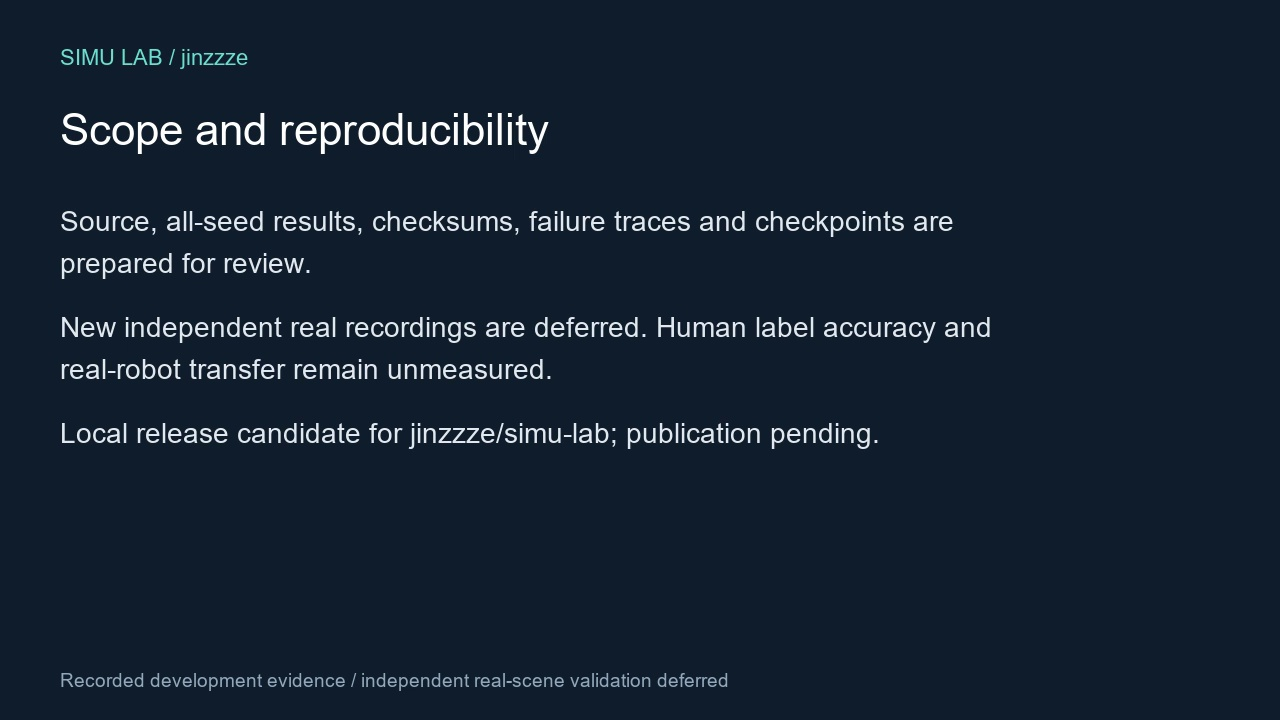
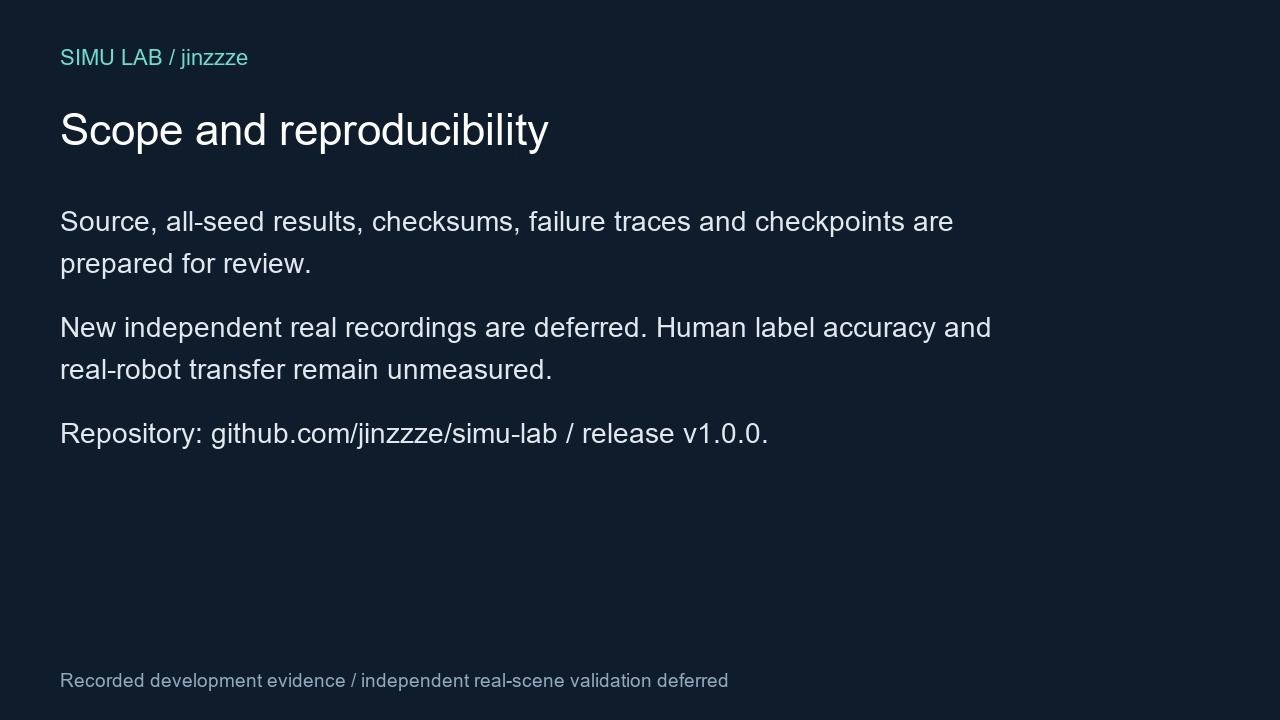
Finalize public release status in reports and demonstration

Changed region(s): [[0.0312, 0.5806, 0.6875, 0.6417]]

diff --git a/artifacts/reports/submission_v1/index.html b/artifacts/reports/submission_v1/index.html
@@ -1,1 +1,1 @@
-<!doctype html><html lang="en"><head><meta charset="utf-8"><meta name="viewport" content="width=device-width,initial-scale=1"><title>Simu Lab | Robot learning from personal video</title><style>body{margin:0;background:#f2f6f5;color:#172e3b;font:17px/1.6 system-ui}main{max-width:1050px;margin:auto;padding:45px 24px}h1{font-size:44px;line-height:1.13}h2{margin-top:42px}a{color:#087b80}video{width:100%;background:#101e2c;border-radius:12px}section{background:white;border:1px solid #dbe5e7;padding:24px;border-radius:12px;margin:22px 0}.notice{background:#fff3dc;padding:15px;border-radius:8px}table{border-collapse:collapse;width:100%}td,th{padding:10px;border-bottom:1px solid #dbe5e7;text-align:left}.scroll{overflow-x:auto}small{color:#526976}</style></head><body><main><small>JINZZZE / SIMU-LAB / LOCAL RELEASE CANDIDATE</small><h1>Can hand and object supervision<br>improve simulated robot grasping?</h1><p>A controlled pilot study using 12 personally supplied phone videos, a contact-based Panda simulator, a learned macro-outcome model and a separate compact Diffusion Policy.</p><p class="notice">Publication pending. Independent real-scene validation is deferred. Existing phone recordings remain development data; human pseudo-label accuracy and real-robot transfer have not been measured.</p><video controls preload="metadata" poster="slide_00.png" src="submission_demo_en.mp4"></video><p><a href="../../../docs/SUBMISSION_EN.md">Application draft</a> · <a href="../../../README.md">English technical overview</a> · <a href="../../../docs/RELEASE_REPRODUCTION.md">Reproduction</a> · <a href="../visual_ablation_v1/index.html">Detailed evidence report (Chinese)</a></p><section><h2>Result: no measured combined-supervision gain</h2><div class="scroll"><table><tr><th>Group</th><th>Auxiliary target</th><th>256 images</th><th>32 images</th></tr><tr><td>A</td><td>RGB consistency only</td><td>192/192</td><td>184/192</td></tr><tr><td>B</td><td>Object boxes</td><td>192/192</td><td>183/192</td></tr><tr><td>C</td><td>Hand landmarks</td><td>192/192</td><td>184/192</td></tr><tr><td>D</td><td>Both</td><td>192/192</td><td>181/192</td></tr><tr><td>R</td><td>No personal-video pretraining</td><td>192/192</td><td>182/192</td></tr></table></div><p>Each row reuses 64 initial scenes across three training seeds. R and the 32-image follow-up are additional exploratory diagnostics; the latter reuses the test scenes. No statistical significance or real-world generalization is claimed.</p></section><section><h2>Separate learned components</h2><p><strong>Macro-outcome model:</strong> 28.41 mm mean endpoint error and 153/160 correct success/failure labels across 32 test initial scenes. This is prediction accuracy; only 71/160 recorded actions succeeded. The model does not select actions.</p><p><strong>Compact DP-D:</strong> 84/192 strict successes (27, 25 and 32 out of 64 per seed), with 128 additional simulated expert training trajectories. Initial estimated XY, robot state and time condition the policy; it is not an end-to-end RGB-history benchmark replica. Two rendered-image overlaps are disclosed; exclusion sensitivity is 80/186.</p></section><section><h2>Inspect the evidence</h2><ul><li><a href="../visual_ablation_v1/fairness_audit.json">Primary paired-input audit</a></li><li><a href="../diffusion_policy_v1/audit.json">DP audit</a> · <a href="../diffusion_policy_v1/failure_review/DP_seed7_scene30001/failure_demo.mp4">First DP seed-7 failure</a></li><li><a href="../grasp_world_model_v1/results.json">World-model metrics and lineage</a></li><li><a href="../../../docs/DATA_MODEL_CARD.md">Data and model card</a> · <a href="../../../THIRD_PARTY_NOTICES.md">Third-party sources</a></li></ul></section><p><small>Prepared with Codex assistance. Applicant name, final license and actual public URLs remain to be confirmed. Nothing on this page asserts that an application has been submitted or accepted.</small></p></main></body></html>
+<!doctype html><html lang="en"><head><meta charset="utf-8"><meta name="viewport" content="width=device-width,initial-scale=1"><title>Simu Lab | Robot learning from personal video</title><style>body{margin:0;background:#f2f6f5;color:#172e3b;font:17px/1.6 system-ui}main{max-width:1050px;margin:auto;padding:45px 24px}h1{font-size:44px;line-height:1.13}h2{margin-top:42px}a{color:#087b80}video{width:100%;background:#101e2c;border-radius:12px}section{background:white;border:1px solid #dbe5e7;padding:24px;border-radius:12px;margin:22px 0}.notice{background:#fff3dc;padding:15px;border-radius:8px}table{border-collapse:collapse;width:100%}td,th{padding:10px;border-bottom:1px solid #dbe5e7;text-align:left}.scroll{overflow-x:auto}small{color:#526976}</style></head><body><main><small>JINZZZE / SIMU-LAB / RECORDED PILOT / V1.0.0</small><h1>Can hand and object supervision<br>improve simulated robot grasping?</h1><p>A controlled pilot study using 12 personally supplied phone videos, a contact-based Panda simulator, a learned macro-outcome model and a separate compact Diffusion Policy.</p><p class="notice">Public repository: <a href="https://github.com/jinzzze/simu-lab">jinzzze/simu-lab</a>; <a href="https://github.com/jinzzze/simu-lab/releases/tag/v1.0.0">data, models and checksums</a>. Independent real-scene validation is deferred. Existing phone recordings remain development data; human pseudo-label accuracy and real-robot transfer have not been measured.</p><video controls preload="metadata" poster="slide_00.png" src="submission_demo_en.mp4"></video><p><a href="../../../docs/SUBMISSION_EN.md">Application draft</a> · <a href="../../../README.md">English technical overview</a> · <a href="../../../docs/RELEASE_REPRODUCTION.md">Reproduction</a> · <a href="../visual_ablation_v1/index.html">Detailed evidence report (Chinese)</a></p><section><h2>Result: no measured combined-supervision gain</h2><div class="scroll"><table><tr><th>Group</th><th>Auxiliary target</th><th>256 images</th><th>32 images</th></tr><tr><td>A</td><td>RGB consistency only</td><td>192/192</td><td>184/192</td></tr><tr><td>B</td><td>Object boxes</td><td>192/192</td><td>183/192</td></tr><tr><td>C</td><td>Hand landmarks</td><td>192/192</td><td>184/192</td></tr><tr><td>D</td><td>Both</td><td>192/192</td><td>181/192</td></tr><tr><td>R</td><td>No personal-video pretraining</td><td>192/192</td><td>182/192</td></tr></table></div><p>Each row reuses 64 initial scenes across three training seeds. R and the 32-image follow-up are additional exploratory diagnostics; the latter reuses the test scenes. No statistical significance or real-world generalization is claimed.</p></section><section><h2>Separate learned components</h2><p><strong>Macro-outcome model:</strong> 28.41 mm mean endpoint error and 153/160 correct success/failure labels across 32 test initial scenes. This is prediction accuracy; only 71/160 recorded actions succeeded. The model does not select actions.</p><p><strong>Compact DP-D:</strong> 84/192 strict successes (27, 25 and 32 out of 64 per seed), with 128 additional simulated expert training trajectories. Initial estimated XY, robot state and time condition the policy; it is not an end-to-end RGB-history benchmark replica. Two rendered-image overlaps are disclosed; exclusion sensitivity is 80/186.</p></section><section><h2>Inspect the evidence</h2><ul><li><a href="../visual_ablation_v1/fairness_audit.json">Primary paired-input audit</a></li><li><a href="../diffusion_policy_v1/audit.json">DP audit</a> · <a href="../diffusion_policy_v1/failure_review/DP_seed7_scene30001/failure_demo.mp4">First DP seed-7 failure</a></li><li><a href="../grasp_world_model_v1/results.json">World-model metrics and lineage</a></li><li><a href="../../../docs/DATA_MODEL_CARD.md">Data and model card</a> · <a href="../../../THIRD_PARTY_NOTICES.md">Third-party sources</a></li></ul></section><p><small>Prepared with Codex assistance. Applicant name and final license remain to be confirmed. Nothing on this page asserts that an application has been submitted or accepted.</small></p></main></body></html>

diff --git a/scripts/build_submission_demo.py b/scripts/build_submission_demo.py
@@ -30,7 +30,7 @@ def main():
       ('video','Compact Diffusion Policy: learned commands',13,'artifacts/runs/diffusion_policy_grasp_v1/DP_seed7/first_scene_demo.mp4','Seed 7 / first scene 30000. Additional simulated expert action supervision.'),
       ('video','Failure evidence is retained',13,'artifacts/reports/diffusion_policy_v1/failure_review/DP_seed7_scene30001/failure_demo.mp4','First failed scene for seed 7. Replay of stored commands; no resampling.'),
       ('card','DP-D: 84/192 strict successes',10,['Seeds 7 / 17 / 27: 27/64, 25/64, 32/64.','90 failures without qualified lift; 18 after qualified lift.','Same frozen D7 initial vision; extra action data and different budgets. This is not a matched algorithm ablation.']),
-      ('card','Scope and reproducibility',10,['Source, all-seed results, checksums, failure traces and checkpoints are prepared for review.','New independent real recordings are deferred. Human label accuracy and real-robot transfer remain unmeasured.','Local release candidate for jinzzze/simu-lab; publication pending.'])]
+      ('card','Scope and reproducibility',10,['Source, all-seed results, checksums, failure traces and checkpoints are prepared for review.','New independent real recordings are deferred. Human label accuracy and real-robot transfer remain unmeasured.','Repository: github.com/jinzzze/simu-lab / release v1.0.0.'])]
     writer=imageio_ffmpeg.write_frames(str(OUT/'submission_demo_en.mp4'),(1280,720),fps=20,codec='libx264',quality=7,macro_block_size=1,output_params=['-movflags','+faststart'])
     writer.send(None);timeline=[];t=0
     try:

diff --git a/README.md b/README.md
@@ -113,7 +113,7 @@ The 32-image extension is defined by `configs/low_data_plan.json`; its source is
 
 ## What worked and what did not
 
-- The complete personal-video → trained encoder → RGB localization → physical grasp path runs. Primary provenance/pairing checks pass, including rendered-image identity and online/offline prediction agreement. The recorded 26 core tests passed using isolated processes.
+- The complete personal-video → trained encoder → RGB localization → physical grasp path runs. Primary provenance/pairing checks pass, including rendered-image identity and online/offline prediction agreement. The release verification passed 39 tests in an independently installed environment, using isolated processes.
 - The 256-image benchmark is too easy to distinguish task success; even ImageNet without personal-video pretraining succeeds on all tested scenes.
 - Reducing simulation supervision to 32 images reveals failures and larger localization errors, but does not support the combined-supervision hypothesis. All 46 low-data failures lack a qualified lift; example replays are preserved separately from aggregate evidence.
 - The Windows Torch and Panda/Bullet stacks conflict when loaded together (two OpenMP runtimes). A persistent isolated predictor process fixes integration; only RGB bytes enter it. Tests use separate processes. Unsafe duplicate-runtime suppression is not used.
@@ -125,6 +125,6 @@ This is a small pilot with one conservative real development scene family. There
 
 The reported four-group experiment uses real data for visual learning. The independent macro-action extension supplies a trained outcome model from simulation, with true-state and one-checkpoint RGB diagnostics. There is still no VLA, demonstrated world-model planning benefit or broad dynamics generalization. The separate DP extension learns actions from additional simulated robot demonstrations. Its transition labels do not come from the personal videos.
 
-Raw phone videos, derived NPZs, large weights and the environment remain local and are excluded from Git. Without those exact inputs, the code alone cannot recreate this particular experiment. No public data download, code license, public repository or application submission is asserted. These remain applicant-owned release steps. See the [challenge alignment and delivery gaps](docs/CHALLENGE_ALIGNMENT.md).
+Raw phone videos, derived NPZs and large weights are distributed separately in the v1.0.0 Release rather than Git history. The installed environment is not distributed; use the recorded installation locks. Public distribution of all recorded inputs and checkpoints was approved by the applicant. No blanket source/data/model license has been granted, and the actual job application remains unsubmitted. See the [challenge alignment and delivery gaps](docs/CHALLENGE_ALIGNMENT.md).
 
 [Current task](docs/CURRENT_TASK.md) · [Data and labels](docs/PILOT_LABEL_REPORT.md) · [Training implementation](docs/VISUAL_TRAINING.md) · [Original challenge](https://jobs.ashbyhq.com/humanoid/e1a2a9de-ad23-4632-9d93-ee50fd41a221)

diff --git a/docs/CHALLENGE_ALIGNMENT.md b/docs/CHALLENGE_ALIGNMENT.md
@@ -27,7 +27,7 @@ The original A/B/C/D/R experiment still uses a fixed grasp state machine and fra
 
 Independent real recording sessions, dense pseudo-label accuracy annotation, stronger action-aware world-model baselines, broader RGB uncertainty evaluation, new camera/object/physics distributions and real robot testing remain open. The completed RGB batch diagnostic uses one previously selected visual checkpoint and replays commands originally constructed using true simulator state plus fixed offsets. It is not an RGB policy choosing actions, and the small metric differences do not show that estimated state is superior to true state.
 
-A public GitHub repository, code/data release licensing, public input and weight availability, a clean installation on another machine, and final application submission remain incomplete. Raw recordings and large outputs are currently local and ignored by Git; a public code repository alone would not reproduce these specific results. Publication must also check that linked videos and required inputs are actually accessible. No personal applicant details or public project URLs have been fabricated.
+The public repository and versioned input/checkpoint downloads are provided at jinzzze/simu-lab. A clean installation on a different machine, a blanket code/data reuse license and final application submission remain open. Personal applicant details have not been fabricated. Public distribution of all original recordings and checkpoints was explicitly approved.
 
 ## Review entry points
 
@@ -42,7 +42,7 @@ These are evidence and release boundaries for the current project, not a claim t
 
 ## Release preparation update (2026-10-07)
 
-Independent real-scene validation is deferred by the applicant. Local source/report and input/checkpoint release candidates, an English application draft, a 112-second captioned demonstration and a 48-frame blinded development-label review are prepared. Human box/keypoint accuracy is not yet measured. Same-host clean installation passes the recorded checks; publication, final license/data permissions, applicant identity and the actual application remain pending. See [release checklist](RELEASE_CHECKLIST_ZH.md) and [archive reproduction](RELEASE_REPRODUCTION.md).
+Independent real-scene validation is deferred by the applicant. Local source/report and input/checkpoint release candidates, an English application draft, a 112-second captioned demonstration and a 48-frame blinded development-label review are prepared. Human box/keypoint accuracy is not yet measured. Same-host clean installation passes the recorded checks. All materials have been approved for public distribution; final license selection, applicant identity and the actual application remain pending. See [release checklist](RELEASE_CHECKLIST_ZH.md) and [archive reproduction](RELEASE_REPRODUCTION.md).
 
 
 ## Public release addendum

diff --git a/docs/REPRODUCIBILITY.md b/docs/REPRODUCIBILITY.md
@@ -31,7 +31,7 @@ Read `docs/PILOT_LABEL_REPORT.md` before interpreting pseudo labels. `scripts/in
 
 The current pilot has one conservative real development scene family. Adjacent frames, copies, annotations and re-encodings must not be assigned independent real train/test identities. The duplicate `pilot_originals` directory is not extra data. Sparse visual approval is for exploratory development only, not certified label accuracy.
 
-Human videos were personally supplied by the applicant. No public download is currently available; code alone cannot reproduce these specific results without the exact local input data. Do not substitute synthetic images and present their outcomes as the personal-data experiment. Raw video publication and data licensing remain applicant decisions.
+Human videos were personally supplied by the applicant and their public distribution was explicitly authorized. Download the exact input/checkpoint archive from release v1.0.0; code alone is insufficient to recreate these results. Do not substitute synthetic images and present their outcomes as the personal-data experiment. A license for downstream reuse remains separate from permission to distribute.
 
 ## Environment
 
@@ -90,7 +90,7 @@ See [DP-D scope and commands](DIFFUSION_POLICY.md). Recompute its report with `.
 
 ## Release preparation update (2026-10-07)
 
-Independent real-scene validation is deferred by the applicant. Local source/report and input/checkpoint release candidates, an English application draft, a 112-second captioned demonstration and a 48-frame blinded development-label review are prepared. Human box/keypoint accuracy is not yet measured. Same-host clean installation passes the recorded checks; publication, final license/data permissions, applicant identity and the actual application remain pending. See [release checklist](RELEASE_CHECKLIST_ZH.md) and [archive reproduction](RELEASE_REPRODUCTION.md).
+Independent real-scene validation is deferred by the applicant. Local source/report and input/checkpoint release candidates, an English application draft, a 112-second captioned demonstration and a 48-frame blinded development-label review are prepared. Human box/keypoint accuracy is not yet measured. Same-host clean installation passes the recorded checks. All materials have been approved for public distribution; final license selection, applicant identity and the actual application remain pending. See [release checklist](RELEASE_CHECKLIST_ZH.md) and [archive reproduction](RELEASE_REPRODUCTION.md).
 
 
 ## Public release addendum

diff --git a/docs/ENVIRONMENT.md b/docs/ENVIRONMENT.md
@@ -68,7 +68,7 @@ Conda 需先可用；按本机安装位置调用实际可执行文件。PyBullet
 
 ## Release preparation update (2026-10-07)
 
-Independent real-scene validation is deferred by the applicant. Local source/report and input/checkpoint release candidates, an English application draft, a 112-second captioned demonstration and a 48-frame blinded development-label review are prepared. Human box/keypoint accuracy is not yet measured. Same-host clean installation passes the recorded checks; publication, final license/data permissions, applicant identity and the actual application remain pending. See [release checklist](RELEASE_CHECKLIST_ZH.md) and [archive reproduction](RELEASE_REPRODUCTION.md).
+Independent real-scene validation is deferred by the applicant. Local source/report and input/checkpoint release candidates, an English application draft, a 112-second captioned demonstration and a 48-frame blinded development-label review are prepared. Human box/keypoint accuracy is not yet measured. Same-host clean installation passes the recorded checks. All materials have been approved for public distribution; final license selection, applicant identity and the actual application remain pending. See [release checklist](RELEASE_CHECKLIST_ZH.md) and [archive reproduction](RELEASE_REPRODUCTION.md).
 
 
 ## Public release addendum
